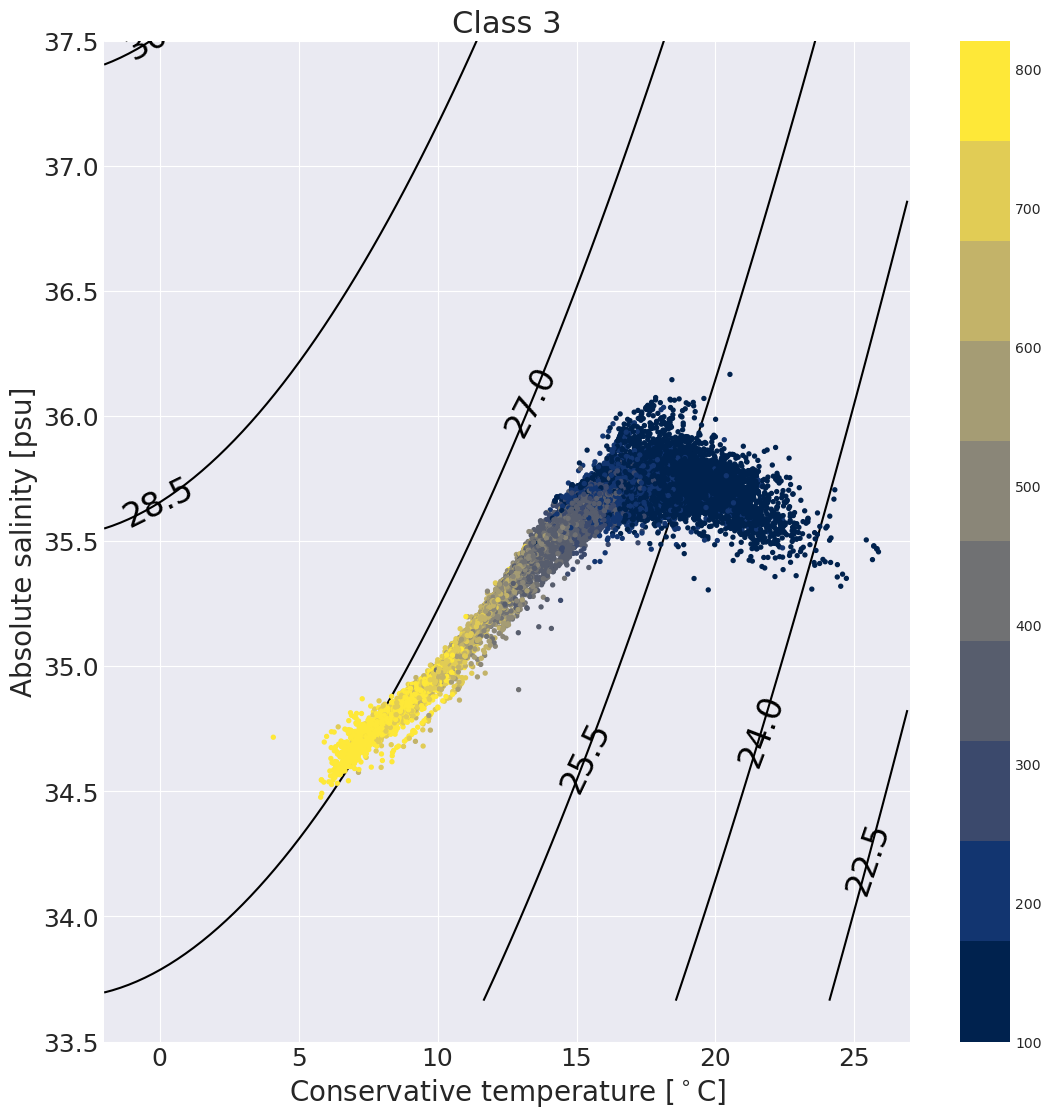
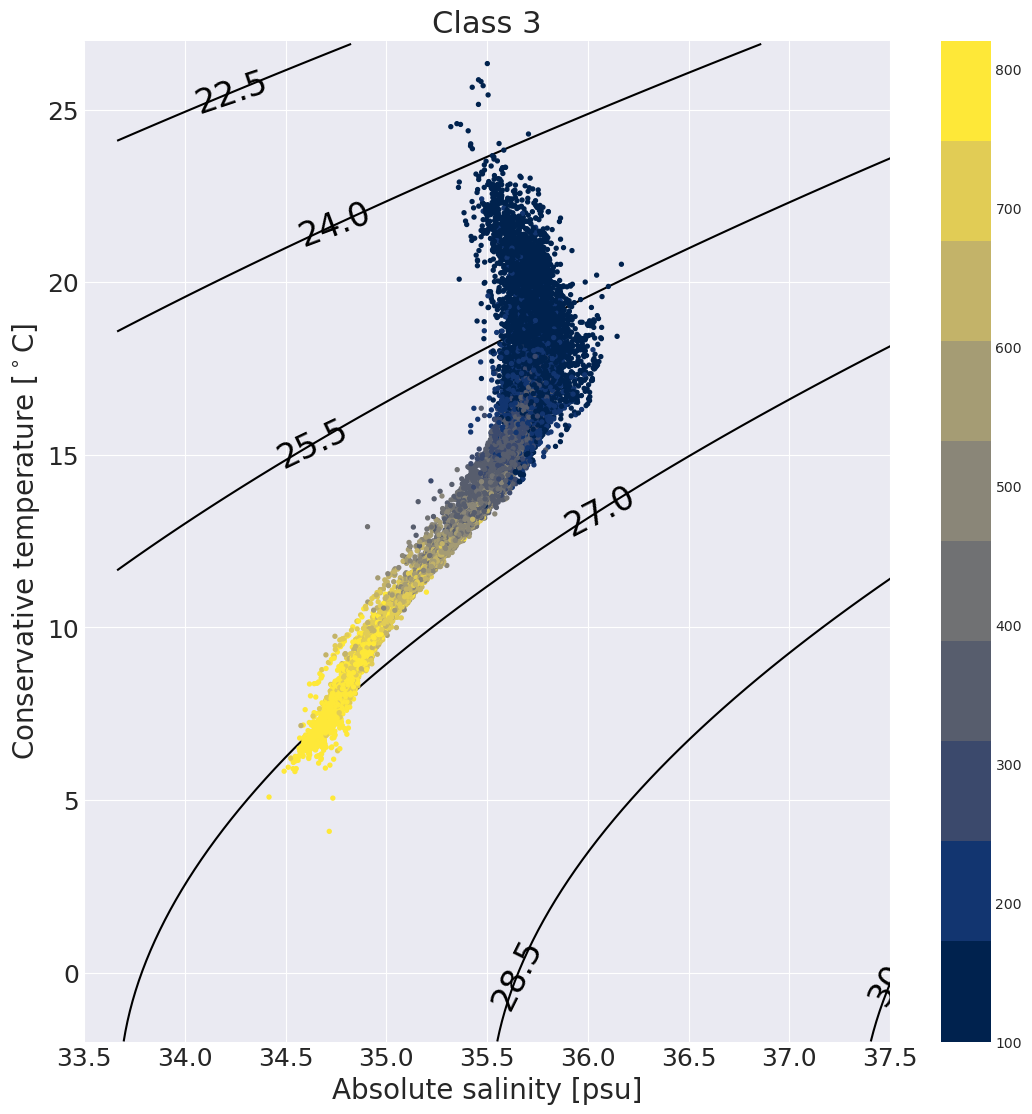
Swap T/S axes, also minor tSNE fixes

diff --git a/src/plot_tools.py b/src/plot_tools.py
@@ -751,10 +751,10 @@ def plot_TS_single_lev(ploc, df, n_comp, descrip='', plev=0, PTrange=(-2, 27.0),
 
     #colormap with Historical data
     plt.figure(figsize=(13, 13))
-    CL = plt.contour(ctg, sag, sig0_grid, colors='black', zorder=1)
+    CL = plt.contour(sag, ctg, sig0_grid, colors='black', zorder=1)
     plt.clabel(CL, fontsize=24, inline=False, fmt='%.1f')
-    SC = plt.scatter(T_random_sample,
-                     S_random_sample,
+    SC = plt.scatter(S_random_sample,
+                     T_random_sample,
                      c = clabels_random_sample,
                      marker='o',
                      cmap= colormap,
@@ -762,12 +762,12 @@ def plot_TS_single_lev(ploc, df, n_comp, descrip='', plev=0, PTrange=(-2, 27.0),
                      zorder=2,
                      )
     plt.colorbar(SC)
-    plt.xlabel('Conservative temperature [$^\circ$C]', fontsize=20)
-    plt.ylabel('Absolute salinity [psu]', fontsize=20)
-    plt.xlim(PTrange)
-    plt.ylim(SPrange)
-    plt.xticks(fontsize=18)
+    plt.ylabel('Conservative temperature [$^\circ$C]', fontsize=20)
+    plt.xlabel('Absolute salinity [psu]', fontsize=20)
+    plt.ylim(PTrange)
+    plt.xlim(SPrange)
     plt.yticks(fontsize=18)
+    plt.xticks(fontsize=18)
     plt.title('T-S diagram at '+ str(p) + ' dbar', fontsize=22)
     plt.savefig(ploc + 'TS_single_lev_' + str(int(p)) + 'dbar' + descrip + '.png', bbox_inches='tight')
     plt.close()
@@ -812,10 +812,10 @@ def plot_TS_all_lev(ploc, df, n_comp, descrip='', PTrange=(-2, 27.0),
 
     #colormap with Historical data
     plt.figure(figsize=(13, 13))
-    CL = plt.contour(ctg, sag, sig0_grid, colors='black', zorder=1)
+    CL = plt.contour(sag, ctg, sig0_grid, colors='black', zorder=1)
     plt.clabel(CL, fontsize=24, inline=False, fmt='%.1f')
-    SC = plt.scatter(T_random_sample,
-                     S_random_sample,
+    SC = plt.scatter(S_random_sample,
+                     T_random_sample,
                      c = clabels_random_sample,
                      marker='o',
                      cmap= colormap,
@@ -823,12 +823,12 @@ def plot_TS_all_lev(ploc, df, n_comp, descrip='', PTrange=(-2, 27.0),
                      zorder=2,
                      )
     plt.colorbar(SC)
-    plt.xlabel('Conservative temperature [$^\circ$C]', fontsize=20)
-    plt.ylabel('Absolute salinity [psu]', fontsize=20)
-    plt.xlim(PTrange)
-    plt.ylim(SPrange)
-    plt.xticks(fontsize=18)
+    plt.ylabel('Conservative temperature [$^\circ$C]', fontsize=20)
+    plt.xlabel('Absolute salinity [psu]', fontsize=20)
+    plt.ylim(PTrange)
+    plt.xlim(SPrange)
     plt.yticks(fontsize=18)
+    plt.xticks(fontsize=18)
     #plt.title('T-S diagram at '+ str(p) + ' dbar', fontsize=22)
     plt.savefig(ploc + 'TS_all_levs' + descrip + '.png', bbox_inches='tight')
     plt.close()
@@ -883,10 +883,10 @@ def plot_TS_multi_lev(ploc, df, n_comp, descrip='', plev=0, PTrange=(-2, 27.0),
 
         #colormap with Historical data
         plt.figure(figsize=(13, 13))
-        CL = plt.contour(ctg, sag, sig0_grid, colors='black', zorder=1)
+        CL = plt.contour(sag, ctg, sig0_grid, colors='black', zorder=1)
         plt.clabel(CL, fontsize=24, inline=False, fmt='%.1f')
-        SC = plt.scatter(T_random_sample,
-                         S_random_sample,
+        SC = plt.scatter(S_random_sample,
+                         T_random_sample,
                          c = clabels_random_sample,
                          marker='o',
                          cmap= colormap,
@@ -894,12 +894,12 @@ def plot_TS_multi_lev(ploc, df, n_comp, descrip='', plev=0, PTrange=(-2, 27.0),
                          zorder=2,
                          )
         plt.colorbar(SC)
-        plt.xlabel('Conservative temperature [$^\circ$C]', fontsize=20)
-        plt.ylabel('Absolute salinity [psu]', fontsize=20)
-        plt.xlim(PTrange)
-        plt.ylim(SPrange)
-        plt.xticks(fontsize=18)
+        plt.ylabel('Conservative temperature [$^\circ$C]', fontsize=20)
+        plt.xlabel('Absolute salinity [psu]', fontsize=20)
+        plt.ylim(PTrange)
+        plt.xlim(SPrange)
         plt.yticks(fontsize=18)
+        plt.xticks(fontsize=18)
         plt.title('Class ' + str(nclass) , fontsize=22)
         plt.savefig(ploc + 'TS_multilev_class_' + str(nclass) + 'K' + descrip + '.png', bbox_inches='tight')
         plt.close()

diff --git a/src/example.py b/src/example.py
@@ -188,7 +188,7 @@ class_means, class_stds = gmm.calc_class_stats(profiles)
 tSNE_data, colors_for_tSNE = lp.fit_and_apply_tsne(profiles, Xtrans)
 
 # plot t-SNE with class labels
-pt.plot_tsne(ploc, colormap, profiles, tSNE_data, colors_for_tSNE)
+pt.plot_tsne(ploc, colormap, tSNE_data, colors_for_tSNE)
 
 #####################################################################
 # Plot classification results

diff --git a/src/load_and_preprocess.py b/src/load_and_preprocess.py
@@ -8,6 +8,7 @@ import xarray as xr
 from sklearn import preprocessing
 from sklearn.decomposition import PCA
 from sklearn.decomposition import KernelPCA
+from sklearn import manifold
 import umap
 import random
 
